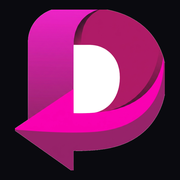
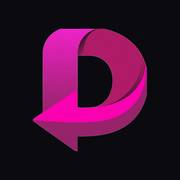
fix(discoolver): juego de iconos completo y coherente en las dos marcas
Tres fallos reales que se veían al renderizar los iconos sobre pestaña
clara y oscura, y sobre las máscaras de iOS y Android:

- El isotipo de 360 pesaba menos que el del B2C al mismo tamaño. Ahora
  los dos se recortan a su alfa real y se rellenan parejo, así que a
  16 px pesan igual aunque los dibujos sean distintos.
- El icono de iOS de 360 se cortaba: Apple recorta a esquina redondeada
  y no añade margen, y la marca iba a sangre. Ahora ocupa el 68 %.
- 360 usaba el isotipo con el hueco de la D pintado de blanco, que sobre
  pestaña clara se confunde con el fondo y sobre oscura es una mancha.
  Pasa a usar el calado, que se comporta igual en las dos.

Entra además lo que faltaba del juego: iconos maskable para Android
—que recorta hasta un 20 % por lado—, color de tema por marca, y un
manifiesto propio para /360. Hasta ahora heredaba el del B2C, así que
«añadir a pantalla de inicio» desde una página de 360 guardaba un
acceso llamado «Discoolver» con el isotipo del B2C y la barra en el
magenta equivocado.

themeColor va en , no en metadata: Next 16 lo
ignora ahí y avisaba en cada build.

Se generan con scripts/generar-iconos.mjs, que deja escritas las reglas
—recorte, relleno por destino y qué isotipo usa cada marca— porque este
juego se había rehecho tres veces a mano.

diff --git a/clients/discoolver/web/app/en/360/layout.tsx b/clients/discoolver/web/app/en/360/layout.tsx
@@ -1,5 +1,9 @@
-import type { Metadata } from "next";
+import type { Metadata, Viewport } from "next";
 import { Brand360Shell } from "@/components/b360/Brand360Shell";
+
+/** El color de la barra del navegador. Va en `viewport` y no en `metadata`:
+ *  Next 16 lo ignora en metadata y avisa en cada build. */
+export const viewport: Viewport = { themeColor: "#FF00C8" };
 
 export const metadata: Metadata = {
   title: {
@@ -8,9 +12,8 @@ export const metadata: Metadata = {
     default: "discoolver 360 — The platform for destinations, accommodation and agencies",
     template: "%s — discoolver 360",
   },
+  manifest: "/manifest-360.webmanifest",
   icons: {
-    // Juego completo: el .ico manda en la pestaña de escritorio, los PNG en
-    // Android/PWA y el apple-icon lleva fondo sólido (iOS no respeta el alfa).
     icon: [
       { url: "/assets/360/favicon.ico", sizes: "16x16 32x32 48x48" },
       { url: "/assets/360/icon-192.png", sizes: "192x192", type: "image/png" },

diff --git a/clients/discoolver/web/app/360/layout.tsx b/clients/discoolver/web/app/360/layout.tsx
@@ -1,5 +1,9 @@
-import type { Metadata } from "next";
+import type { Metadata, Viewport } from "next";
 import { Brand360Shell } from "@/components/b360/Brand360Shell";
+
+/** El color de la barra del navegador. Va en `viewport` y no en `metadata`:
+ *  Next 16 lo ignora en metadata y avisa en cada build. */
+export const viewport: Viewport = { themeColor: "#FF00C8" };
 
 export const metadata: Metadata = {
   title: {
@@ -12,9 +16,8 @@ export const metadata: Metadata = {
   },
   // El root layout declara los iconos del B2C. 360 es otra marca: se sobrescriben
   // aquí para todo el segmento.
+  manifest: "/manifest-360.webmanifest",
   icons: {
-    // Juego completo: el .ico manda en la pestaña de escritorio, los PNG en
-    // Android/PWA y el apple-icon lleva fondo sólido (iOS no respeta el alfa).
     icon: [
       { url: "/assets/360/favicon.ico", sizes: "16x16 32x32 48x48" },
       { url: "/assets/360/icon-192.png", sizes: "192x192", type: "image/png" },

diff --git a/clients/discoolver/web/app/layout.tsx b/clients/discoolver/web/app/layout.tsx
@@ -1,4 +1,4 @@
-import type { Metadata } from "next";
+import type { Metadata, Viewport } from "next";
 import { Space_Grotesk, Geist, Geist_Mono } from "next/font/google";
 import { buildMetadata } from "@/lib/seo";
 import { site } from "@/lib/site";
@@ -25,6 +25,10 @@ const geistMono = Geist_Mono({
   variable: "--font-geist-mono",
   display: "swap",
 });
+
+/** El color de la barra del navegador. Va en `viewport` y no en `metadata`:
+ *  Next 16 lo ignora en metadata y avisa en cada build. */
+export const viewport: Viewport = { themeColor: "#C426C4" };
 
 export const metadata: Metadata = {
   ...buildMetadata({
